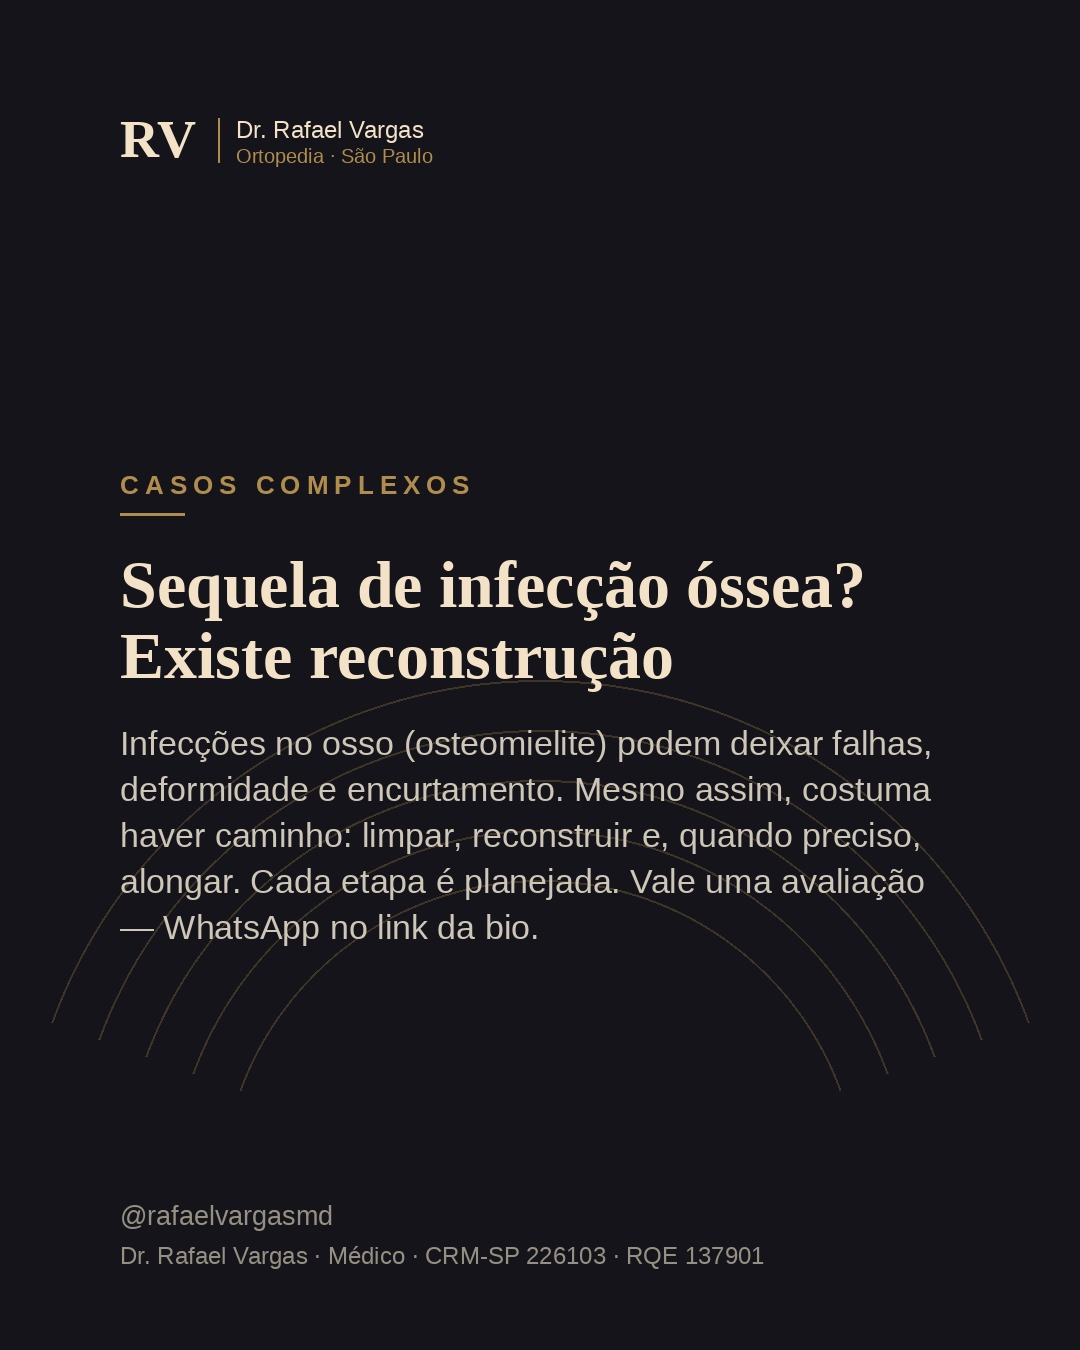
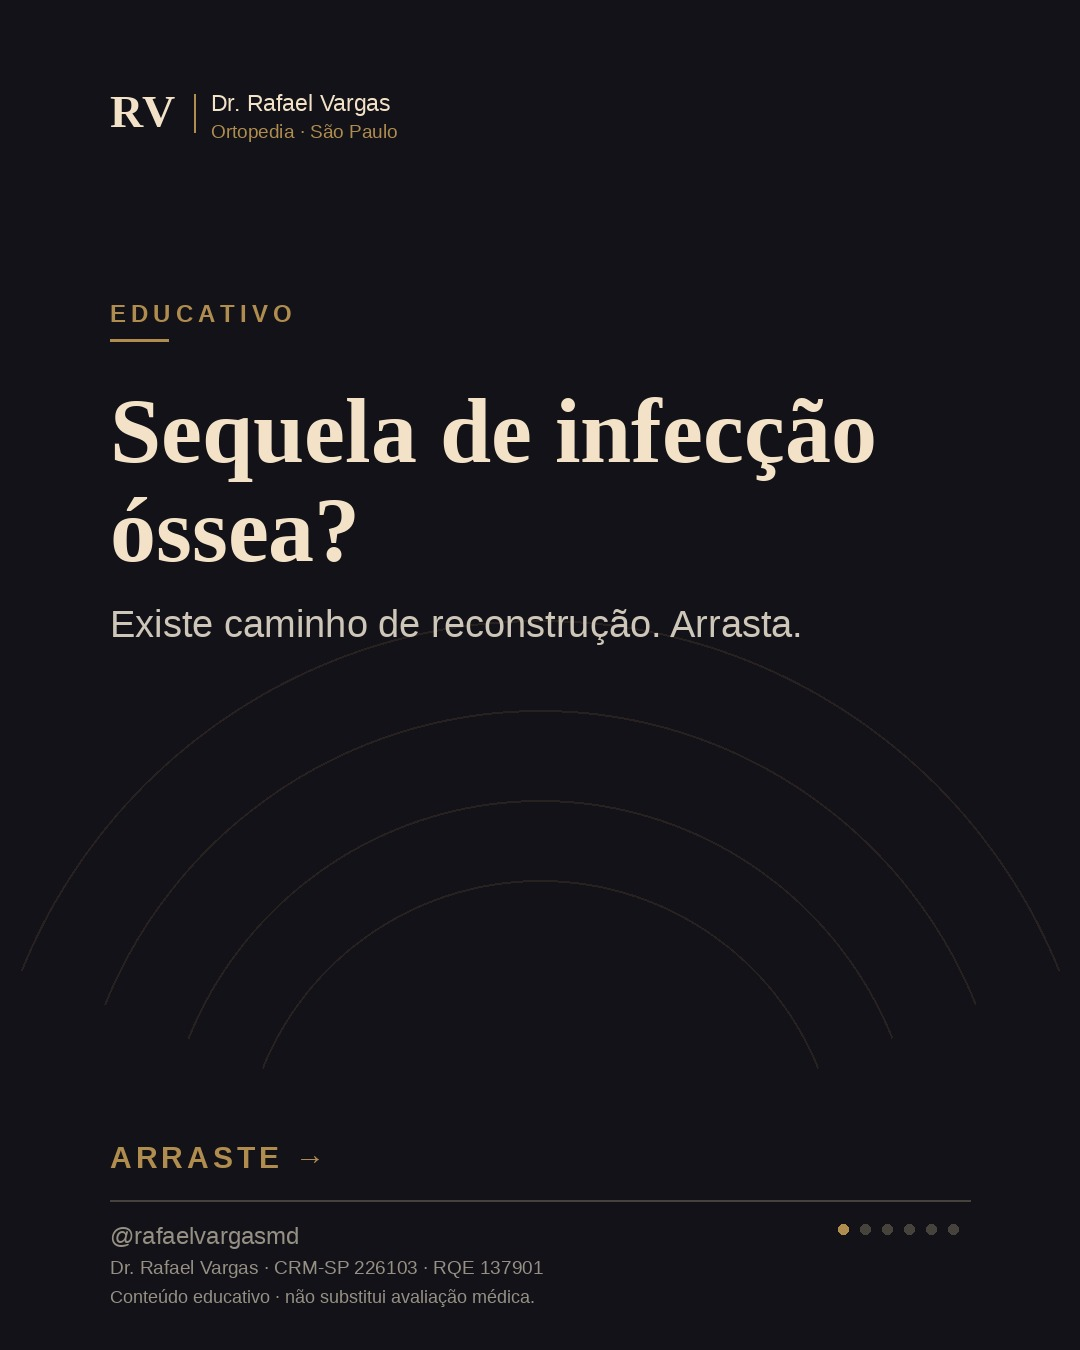
Feed: converte 9 posts de imagem unica para carrosseis narrativos (carrossel.py + slides + posts.json)

diff --git a/carrossel.py b/carrossel.py
@@ -1,0 +1,187 @@
+# -*- coding: utf-8 -*-
+"""
+Gerador de CARROSSEL para o feed (4:5, 1080x1350) — substitui os 'panfletos' de imagem unica.
+Cada post = capa (gancho + 'arraste') -> slides de conteudo (1 ideia cada) -> CTA (salve/manda/WhatsApp).
+Mesma identidade dos reels (INK/CREAM/GOLD, arcos, serifa). CFM: educativo, sem prometer resultado,
+sem paciente real, assinatura + disclaimer. Guardrail: nada de alongamento sob angulo estetico/altura.
+"""
+import os, json
+from PIL import Image, ImageDraw, ImageFont
+W,H = 1080,1350; M=110
+INK=(18,18,24); CREAM=(243,226,200); GOLD=(176,140,79); TXT=(206,198,184); MUT=(150,144,132); FAINT=(70,66,60)
+FD="/usr/share/fonts/truetype/liberation/"; SB="LiberationSerif-Bold.ttf"; NR="LiberationSans-Regular.ttf"; NB="LiberationSans-Bold.ttf"
+SIG="Dr. Rafael Vargas · CRM-SP 226103 · RQE 137901"; DISC="Conteúdo educativo · não substitui avaliação médica."
+_FC={}
+def F(n,s):
+    k=(n,s)
+    if k not in _FC: _FC[k]=ImageFont.truetype(FD+n,s)
+    return _FC[k]
+_m=ImageDraw.Draw(Image.new("RGB",(8,8)))
+def wrap(t,f,mw):
+    out=[];cur=""
+    for w in t.split():
+        s=(cur+" "+w).strip()
+        if _m.textlength(s,font=f)<=mw:cur=s
+        else:
+            if cur:out.append(cur)
+            cur=w
+    if cur:out.append(cur)
+    return out
+def trk(d,xy,text,font,fill,tr,left=True):
+    x,y=xy
+    if not left:
+        wt=sum(d.textlength(c,font=font)+tr for c in text)-tr;x-=wt
+    for c in text:d.text((x,y),c,font=font,fill=fill);x+=d.textlength(c,font=font)+tr
+def base(motif=True):
+    img=Image.new("RGB",(W,H),INK); ov=Image.new("RGBA",(W,H),(0,0,0,0)); da=ImageDraw.Draw(ov)
+    if motif:
+        cy=1180
+        for r in(560,470,380,300): da.arc([W//2-r,cy-r,W//2+r,cy+r],202,338,fill=(176,140,79,34),width=2)
+    img=Image.alpha_composite(img.convert("RGBA"),ov).convert("RGB"); d=ImageDraw.Draw(img)
+    d.text((M,86),"RV",font=F(SB,46),fill=CREAM); wf=d.textlength("RV",font=F(SB,46))
+    d.line([(M+wf+20,94),(M+wf+20,132)],fill=GOLD,width=2)
+    d.text((M+wf+36,90),"Dr. Rafael Vargas",font=F(NR,23),fill=CREAM); d.text((M+wf+36,120),"Ortopedia · São Paulo",font=F(NR,19),fill=GOLD)
+    return img,d
+def footer(d,page,n,cta=False):
+    d.line([(M,H-150),(W-M,H-150)],fill=FAINT,width=2)
+    d.text((M,H-128),"@rafaelvargasmd",font=F(NR,24),fill=MUT)
+    d.text((M,H-94),SIG,font=F(NR,19),fill=MUT); d.text((M,H-64),DISC,font=F(NR,18),fill=MUT)
+    # indicador de paginas (bolinhas)
+    bx=W-M-(n*22); 
+    for i in range(n):
+        c=GOLD if i==page else FAINT
+        d.ellipse([bx+i*22, H-126, bx+i*22+10, H-116], fill=c)
+
+def render_post(post, outdir):
+    sl=post["slides"]; n=len(sl); paths=[]
+    os.makedirs(outdir, exist_ok=True)
+    for i,s in enumerate(sl):
+        img,d=base(motif=True)
+        trk(d,(M,300),s.get("kicker",("EDUCATIVO" if i==0 else "")).upper(),F(NB,24),GOLD,5)
+        d.line([(M,340),(M+58,340)],fill=GOLD,width=3)
+        if i==0:  # CAPA
+            tf=F(SB,92); tl=wrap(s["title"],tf,W-2*M)
+            if len(tl)>3: tf=F(SB,76); tl=wrap(s["title"],tf,W-2*M)
+            ty=380
+            for ln in tl: d.text((M,ty),ln,font=tf,fill=CREAM); ty+=int(tf.size*1.08)
+            if s.get("sub"):
+                ty+=24
+                for ln in wrap(s["sub"],F(NR,38),W-2*M): d.text((M,ty),ln,font=F(NR,38),fill=TXT); ty+=54
+            trk(d,(M,H-210),"ARRASTE →",F(NB,30),GOLD,4)
+        elif s.get("cta"):
+            tf=F(SB,80); ty=400
+            for ln in wrap(s["title"],tf,W-2*M): d.text((M,ty),ln,font=tf,fill=CREAM); ty+=int(tf.size*1.1)
+            ty+=20
+            for ln in wrap(s.get("sub",""),F(NR,38),W-2*M): d.text((M,ty),ln,font=F(NR,38),fill=TXT); ty+=54
+            d.text((M,H-250),"Agende pelo WhatsApp",font=F(NB,42),fill=GOLD); d.text((M,H-198),"link na bio",font=F(NR,34),fill=TXT)
+        else:  # CONTEUDO
+            tf=F(SB,70); ty=400
+            for ln in wrap(s["title"],tf,W-2*M): d.text((M,ty),ln,font=tf,fill=CREAM); ty+=int(tf.size*1.12)
+            ty+=28
+            for ln in wrap(s["body"],F(NR,42),W-2*M): d.text((M,ty),ln,font=F(NR,42),fill=TXT); ty+=60
+        footer(d,i,n,cta=s.get("cta",False))
+        p=os.path.join(outdir,f"{post['id']}_{i+1}.jpg"); img.save(p,"JPEG",quality=92); paths.append("images/"+os.path.basename(p))
+    return paths
+
+# ---- exemplo: refaz o post03 'Fixador externo' como CARROSSEL ----
+EXEMPLO={"id":"post03","slides":[
+ {"kicker":"Educativo","title":"Fixador externo: pra que serve?","sub":"E por que não é “caso perdido”. Arrasta que eu explico."},
+ {"kicker":"O que é","title":"Uma estrutura por fora do corpo","body":"Hastes e pinos seguram o osso por fora da pele, estabilizando enquanto ele cura ou se reconstrói."},
+ {"kicker":"Pra que serve","title":"Estabilizar o que é complexo","body":"Fraturas graves, ossos que não colaram e correção de deformidades — situações em que o gesso não basta."},
+ {"kicker":"A vantagem","title":"Ajuste fino, sem nova cirurgia","body":"Por ficar por fora, dá pra corrigir aos poucos ao longo do tratamento, sem reabrir a cada etapa."},
+ {"kicker":"Mito x Verdade","title":"Não é “gaiola” nem fim de linha","body":"É uma ferramenta precisa e temporária. Na maioria dos casos, sai quando o osso cumpre seu papel."},
+ {"kicker":"Passa adiante","cta":True,"title":"Salve e mande pra quem precisa","sub":"Para um familiar que vai passar por isso, ou que ficou assustado com o aparelho."},
+]}
+
+if __name__=="__main__":
+    ROOT=os.path.dirname(os.path.abspath(__file__))
+    paths=render_post(EXEMPLO, os.path.join(ROOT,"images"))
+    print("slides gerados:", len(paths)); print(paths)
+
+# ================= BIBLIOTECA DOS 9 (panfletos -> carrosseis) =================
+def cta(t,s): return {"cta":True,"kicker":"Passa adiante","title":t,"sub":s}
+POSTS=[
+ {"id":"post03","slides":[
+  {"kicker":"Educativo","title":"Fixador externo: pra que serve?","sub":"E por que não é “caso perdido”. Arrasta que eu explico."},
+  {"kicker":"O que é","title":"Uma estrutura por fora do corpo","body":"Hastes e pinos seguram o osso por fora da pele, estabilizando enquanto ele cura ou se reconstrói."},
+  {"kicker":"Pra que serve","title":"Estabilizar o que é complexo","body":"Fraturas graves, ossos que não colaram e correção de deformidades — quando o gesso não basta."},
+  {"kicker":"A vantagem","title":"Ajuste fino, sem nova cirurgia","body":"Por ficar por fora, dá pra corrigir aos poucos ao longo do tratamento, sem reabrir a cada etapa."},
+  {"kicker":"Mito x Verdade","title":"Não é “gaiola” nem fim de linha","body":"É uma ferramenta precisa e temporária. Costuma sair quando o osso cumpre seu papel."},
+  cta("Salve e mande pra quem precisa","Para um familiar que vai passar por isso ou que se assustou com o aparelho.")]},
+ {"id":"post04","slides":[
+  {"kicker":"Educativo","title":"Uma perna mais curta que a outra?","sub":"Quando é só detalhe e quando merece um olhar. Arrasta."},
+  {"kicker":"O que é comum","title":"Pequenas diferenças existem","body":"Diferenças de poucos milímetros são frequentes e muitas vezes não causam sintoma algum."},
+  {"kicker":"Quando investigar","title":"Quando passa a incomodar","body":"Se aumenta, faz mancar, dói, ou apareceu depois de fratura ou infecção — vale avaliar."},
+  {"kicker":"Na criança","title":"O crescimento muda tudo","body":"Acompanhar a evolução ao longo do tempo é parte do diagnóstico, não só uma medida isolada."},
+  {"kicker":"O que define","title":"Medir certo guia a conduta","body":"A avaliação clínica somada à imagem diz se é observar, usar palmilha ou tratar."},
+  cta("Salve pra lembrar dos sinais","E mande pra um pai ou mãe que está com essa dúvida em casa.")]},
+ {"id":"post05","slides":[
+  {"kicker":"Educativo","title":"Fratura que não cola?","sub":"Tem nome — pseudartrose — e tem caminho. Arrasta."},
+  {"kicker":"O que é","title":"O osso parou de consolidar","body":"Quando a fratura não “fecha” no tempo esperado, chamamos de pseudartrose."},
+  {"kicker":"Por que acontece","title":"Quase sempre tem uma causa","body":"Instabilidade, pouca circulação no local, infecção ou perda de osso costumam estar por trás."},
+  {"kicker":"O que muda","title":"O tratamento ataca a causa","body":"Estabilizar bem, estimular o osso e, às vezes, enxerto — o plano depende do motivo."},
+  {"kicker":"A mensagem","title":"Não é azar, é um problema com plano","body":"Identificada a causa, existe estratégia. O importante é não deixar arrastar."},
+  cta("Salve e compartilhe","Com alguém que está há meses com uma fratura que não cola.")]},
+ {"id":"post07","slides":[
+  {"kicker":"Sinais","title":"Quando procurar um especialista?","sub":"4 situações de caso complexo que pedem avaliação. Arrasta."},
+  {"kicker":"Sinal 1","title":"Fratura que não colou","body":"Passou o tempo esperado e o osso não consolidou? Vale uma avaliação dedicada."},
+  {"kicker":"Sinal 2","title":"Deformidade ou perna desigual","body":"Quando atrapalha andar ou a função, a correção entra em cena."},
+  {"kicker":"Sinal 3","title":"Sequela de infecção ou perda de osso","body":"Depois de trauma ou infecção, existe caminho de reconstrução."},
+  {"kicker":"Sinal 4","title":"Já operou e não resolveu","body":"Uma segunda opinião focada em reconstrução pode mudar o rumo."},
+  cta("Salve esse checklist","E mande pra quem está nessa encruzilhada agora.")]},
+ {"id":"post08","slides":[
+  {"kicker":"Educativo","title":"Tratamento guiado e seriado","sub":"Por que fazer em etapas muda o resultado. Arrasta."},
+  {"kicker":"O que é","title":"O tratamento acontece em etapas","body":"Em vez de tudo de uma vez, o caminho é dividido em passos com ajustes ao longo dele."},
+  {"kicker":"Por que importa","title":"O corpo responde aos poucos","body":"Corrigir em etapas é mais preciso e seguro do que forçar tudo num momento só."},
+  {"kicker":"O acompanhamento","title":"Cada retorno afina o plano","body":"Não é “colocar e esperar”: cada consulta ajusta a rota conforme a resposta."},
+  {"kicker":"A mensagem","title":"Método costuma vencer pressa","body":"Paciência com direção entrega resultados melhores que a pressa sem plano."},
+  cta("Salve e mande adiante","Pra quem está começando um tratamento longo e ansioso por respostas.")]},
+ {"id":"post11","slides":[
+  {"kicker":"Consultório","title":"Como é a sua consulta","sub":"O que esperar do primeiro encontro. Arrasta."},
+  {"kicker":"Antes","title":"Leve seus exames e o histórico","body":"Raio-X, tomografia e o que já foi feito direcionam toda a avaliação."},
+  {"kicker":"Na consulta","title":"Conversa, exame e imagens","body":"Entendo a queixa, examino e analiso os exames junto com você."},
+  {"kicker":"O plano","title":"Você sai entendendo o caminho","body":"Diagnóstico, opções e próximos passos — claros, no seu tempo."},
+  {"kicker":"Onde","title":"Av. Paulista, São Paulo","body":"Atendimento em consultório, com agendamento pelo WhatsApp."},
+  cta("Agende a sua avaliação","Manda “consulta” no WhatsApp do link da bio que a gente organiza.")]},
+ {"id":"post12","slides":[
+  {"kicker":"Dúvidas","title":"Dói? Quanto tempo? Volto a andar?","sub":"As 3 perguntas que todo mundo faz. Arrasta."},
+  {"kicker":"Dói?","title":"O controle da dor é parte do plano","body":"Hoje há muitos recursos para manter o conforto durante o tratamento."},
+  {"kicker":"Quanto tempo?","title":"Depende do caso","body":"Reconstruções costumam ser por etapas, com acompanhamento — o tempo é individual."},
+  {"kicker":"Volto a andar?","title":"O objetivo é sempre função","body":"Andar e usar o membro é a meta. Cada caso é avaliado de forma própria."},
+  {"kicker":"A mensagem","title":"Pergunte tudo na consulta","body":"Informação reduz o medo. Não existe pergunta boba sobre o seu tratamento."},
+  cta("Salve essas respostas","E mande pra quem vai começar e está cheio de dúvidas.")]},
+ {"id":"post14","slides":[
+  {"kicker":"Educativo","title":"Sequela de infecção óssea?","sub":"Existe caminho de reconstrução. Arrasta."},
+  {"kicker":"O que acontece","title":"A infecção deixa marcas","body":"Pode sobrar perda de osso, deformidade ou uma fratura que não cola."},
+  {"kicker":"O primeiro passo","title":"Tratar a infecção é a base","body":"Sem resolver a infecção, qualquer reconstrução não se sustenta."},
+  {"kicker":"A reconstrução","title":"Depois, restaura-se o osso","body":"Com a infecção controlada, dá pra recuperar o osso e o alinhamento em etapas."},
+  {"kicker":"A mensagem","title":"Complexo, mas não sem saída","body":"É um caminho de etapas, com plano e acompanhamento próximo."},
+  cta("Salve e compartilhe","Com alguém que carrega uma sequela e acha que não há mais o que fazer.")]},
+ {"id":"post17","slides":[
+  {"kicker":"Educativo","title":"Antes de operar, o planejamento muda tudo","sub":"A etapa invisível que mais pesa no resultado. Arrasta."},
+  {"kicker":"O que é","title":"Estudar antes de cortar","body":"Analisar imagens, medir, simular e definir cada passo antes da cirurgia."},
+  {"kicker":"Por que importa","title":"Decisão no improviso custa caro","body":"O que é resolvido no planejamento não precisa ser improvisado na sala."},
+  {"kicker":"O que você ganha","title":"Menos surpresas, mais clareza","body":"Etapas definidas e expectativa realista desde o começo."},
+  {"kicker":"A mensagem","title":"A cirurgia começa antes da sala","body":"O tempo investido em planejar é o que faz o resultado ser previsível."},
+  cta("Salve e mande adiante","Pra quem vai operar e quer entender o que está por trás da decisão.")]},
+]
+
+def atualizar_todos():
+    ROOT=os.path.dirname(os.path.abspath(__file__)); IMG=os.path.join(ROOT,"images")
+    pj=os.path.join(ROOT,"posts.json"); posts=json.load(open(pj,encoding="utf-8"))
+    by={e["id"]:e for e in posts}
+    for post in POSTS:
+        paths=render_post(post, IMG)
+        if post["id"] in by:
+            by[post["id"]]["images"]=paths
+            # remove a imagem unica antiga (postNN.jpg) se existir
+            old=os.path.join(IMG,post["id"]+".jpg")
+            try:
+                if os.path.exists(old): os.remove(old)
+            except Exception: pass
+        print("ok", post["id"], "->", len(paths), "slides")
+    json.dump(posts, open(pj,"w",encoding="utf-8"), ensure_ascii=False, indent=2)
+    print("posts.json atualizado")
+
+if __name__=="__main__":
+    atualizar_todos()
